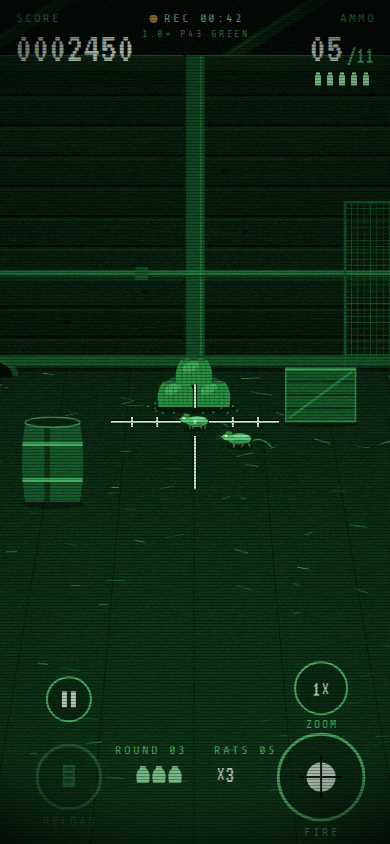
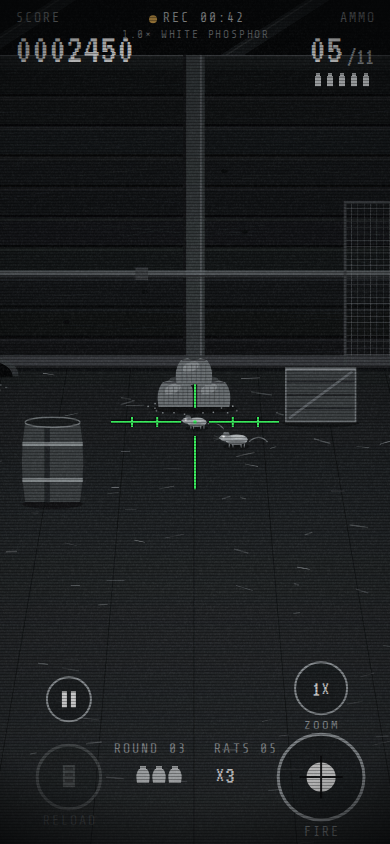
Default to white phosphor, add palettes, and tighten mobile UX
- White phosphor (the look of the original clip) is now the default; the
  green tube is one of five palettes alongside digital, amber and thermal.
  Saved settings from the first build are migrated so the new default wins.
- First-play coaching: a pulsing drag prompt, then a ring around FIRE until
  the first shot; never shown again after that.
- Buttons sink and light up while held; a hit marker flares on the reticle.
- Minimum HUD text raised to 12 px; prefers-reduced-motion disables sway,
  softens recoil, flash and grain.
- Screen stays awake during play (Wake Lock API in the browser, idle timer
  disabled in the iOS wrapper).
- README: Simulator instructions and testing from the feature branch.

Claude-Session: https://claude.ai/code/session_01AaQyWY6ASSuqQsRRu7Rhuq

diff --git a/docs/index.html b/docs/index.html
@@ -56,10 +56,17 @@ const CFG = {
   roundClear: 2.8,     // seconds the round summary stays up
 };
 
+// Every palette is a 7-step luminance ramp (tube black -> bloom white) plus a reticle
+// colour that contrasts with it. White phosphor is the look of the original clip.
 const PALETTES = {
-  green: { key:'green', label:'P43 GREEN', ramp:['#030604','#0a2411','#175c2a','#2c9a48','#5fd97a','#a4ffb5','#eaffee'], reticle:'#dcffe3', warn:'#ffc257' },
-  white: { key:'white', label:'WHITE PHOSPHOR', ramp:['#050607','#1a1d1f','#3f4346','#71767a','#a5abaf','#d6dadc','#ffffff'], reticle:'#3dff62', warn:'#ffc257' },
+  white:   { key:'white',   label:'WHITE PHOSPHOR', ramp:['#050607','#1a1d1f','#3f4346','#71767a','#a5abaf','#d6dadc','#ffffff'], reticle:'#3dff62', warn:'#ffc257' },
+  digital: { key:'digital', label:'DIGITAL',        ramp:['#03070a','#0b1c26','#174050','#2a6a7e','#4fa3b5','#95d8e3','#eafcff'], reticle:'#ff6a4d', warn:'#ffc257' },
+  amber:   { key:'amber',   label:'AMBER',          ramp:['#060402','#2a1a06','#5c3a0c','#9a6414','#d99a2b','#ffd071','#fff5d6'], reticle:'#fff9e8', warn:'#ff6a4d' },
+  thermal: { key:'thermal', label:'THERMAL',        ramp:['#06020c','#24094a','#6a1470','#b8235f','#f06a2a','#fbc531','#ffffff'], reticle:'#ffffff', warn:'#7ff0ff' },
+  green:   { key:'green',   label:'P43 GREEN',      ramp:['#030604','#0a2411','#175c2a','#2c9a48','#5fd97a','#a4ffb5','#eaffee'], reticle:'#dcffe3', warn:'#ffc257' },
 };
+const PALETTE_ORDER = ['white', 'digital', 'amber', 'thermal', 'green'];
+const REDUCED = !!(window.matchMedia && window.matchMedia('(prefers-reduced-motion: reduce)').matches);
 
 const FONT_DISPLAY = "'VT323','SF Mono',Menlo,Consolas,monospace";
 const FONT_UI = "'Share Tech Mono','SF Mono',Menlo,Consolas,monospace";
@@ -85,12 +92,14 @@ const store = {
   get(k, d) { try { const v = localStorage.getItem(k); return v === null ? d : JSON.parse(v); } catch (e) { return d; } },
   set(k, v) { try { localStorage.setItem(k, JSON.stringify(v)); } catch (e) { /* ignore */ } },
 };
-const OPT = Object.assign({ palette: 'green', sound: true, leftHand: false, tapFire: false, aim: 1 }, store.get('rh.opt', {}));
+const savedOpt = store.get('rh.opt', {});
+if (savedOpt.v !== 2) delete savedOpt.palette;   // v1 saves defaulted to green; let the new default win once
+const OPT = Object.assign({ v: 2, palette: 'white', sound: true, leftHand: false, tapFire: false, aim: 1 }, savedOpt);
 function saveOpt() { store.set('rh.opt', OPT); }
 
 // ---------- palette ----------
 function makePal(key) {
-  const p = PALETTES[key] || PALETTES.green;
+  const p = PALETTES[key] || PALETTES.white;
   const rgb = p.ramp.map(hexToRgb);
   return Object.assign({}, p, { rgb, a: (i, al) => `rgba(${rgb[i][0]},${rgb[i][1]},${rgb[i][2]},${al})` });
 }
@@ -713,9 +722,21 @@ const G = {
   ratsTotal: 0, ratsSpawned: 0, ratsHit: 0, ratsEscaped: 0, spawnT: 0, endDelay: 0,
   shots: 0, hits: 0, streak: 0, bestStreak: 0, roundShots: 0, roundHits: 0,
   flash: 0, agc: 0, warnText: '', warnT: 0, warnColor: null, demoT: 0, swayT: 0,
+  hitMark: 0, didDrag: false, didFire: false, tutDone: store.get('rh.tut', false),
 };
 let rows = [];           // tappable menu rows, rebuilt every frame the menu is drawn
 const BTN = {};
+const pressed = new Set();   // button ids currently held down, for pressed-state drawing
+
+// keep the screen awake while playing (Safari 16.4+, and the wrapper sets the idle timer natively)
+let wakeLock = null;
+async function keepAwake() {
+  try {
+    if (!('wakeLock' in navigator) || wakeLock) return;
+    wakeLock = await navigator.wakeLock.request('screen');
+    wakeLock.addEventListener('release', () => { wakeLock = null; });
+  } catch (e) { wakeLock = null; }
+}
 
 function layoutButtons() {
   const r = clamp(W * 0.11, 36, 46);
@@ -746,9 +767,10 @@ const hooks = {
 };
 
 function startGame() {
-  Object.assign(G, { score: 0, sacks: CFG.sacks, round: 0, shots: 0, hits: 0, streak: 0, bestStreak: 0, time: 0, newBest: false });
+  Object.assign(G, { score: 0, sacks: CFG.sacks, round: 0, shots: 0, hits: 0, streak: 0, bestStreak: 0, time: 0, newBest: false, didDrag: false, didFire: false });
   rats.length = 0; particles.length = 0; marks.length = 0; floats.length = 0;
   cam.x = CFG.worldW / 2; cam.y = 1010; cam.zoomT = 1;
+  keepAwake();
   startRound(1);
 }
 function startRound(n) {
@@ -790,11 +812,13 @@ function fire() {
   }
   G.mag--; G.shots++; G.roundShots++;
   G.bolt = CFG.boltTime; G.boltSfx = 0.14;
-  G.flash = 1; G.agc = 1;
+  G.flash = REDUCED ? 0.45 : 1; G.agc = 1;
+  if (!G.didFire) { G.didFire = true; if (!G.tutDone) { G.tutDone = true; store.set('rh.tut', true); } }
   Audio.sfx.shot(); haptic('fire');
   const [wx, wy] = screenToWorld(W / 2, H / 2);   // sample the aim point before the recoil moves the view
   const hit = hitTest(wx, wy);
-  kick.y -= 34 / cam.zoom; kick.x += rand(-9, 9) / cam.zoom;
+  const rk = REDUCED ? 0.35 : 1;
+  kick.y -= 34 * rk / cam.zoom; kick.x += rand(-9, 9) * rk / cam.zoom;
   if (hit.type === 'rat') killRat(hit.rat, wx, wy);
   else {
     impact(wx, wy, hit.type === 'floor' ? 'floor' : 'wall');
@@ -805,6 +829,7 @@ function fire() {
 }
 function killRat(r, wx, wy) {
   r.kill();
+  G.hitMark = 0.3;
   G.hits++; G.roundHits++; G.ratsHit++; G.streak++;
   G.bestStreak = Math.max(G.bestStreak, G.streak);
   const moving = r.state === 'run' ? 50 : 0;
@@ -830,7 +855,10 @@ function togglePause() {
   if (G.state === 'play') { setState('paused'); Audio.sfx.blip(); }
   else if (G.state === 'paused') { setState('play'); Audio.sfx.blip(); }
 }
-function cyclePalette() { setPalette(OPT.palette === 'green' ? 'white' : 'green'); saveOpt(); Audio.sfx.blip(); }
+function cyclePalette() {
+  const i = PALETTE_ORDER.indexOf(OPT.palette);
+  setPalette(PALETTE_ORDER[(i + 1) % PALETTE_ORDER.length]); saveOpt(); Audio.sfx.blip();
+}
 function setSound(on) { OPT.sound = on; Audio.setMuted(!on); saveOpt(); }
 
 // ============================================================
@@ -870,7 +898,7 @@ canvas.addEventListener('pointerdown', e => {
   try { canvas.setPointerCapture(e.pointerId); } catch (err) { /* older browsers */ }
   for (const r of rows) if (x >= r.x0 && x <= r.x1 && y >= r.y0 && y <= r.y1) { Audio.sfx.blip(); haptic('tap'); r.onTap(); return; }
   const b = buttonAt(x, y);
-  if (b) { pointers.set(e.pointerId, { role: 'btn', b }); pressButton(b); return; }
+  if (b) { pointers.set(e.pointerId, { role: 'btn', b }); pressed.add(b.id); pressButton(b); return; }
   if (G.state === 'boot') return;
   pointers.set(e.pointerId, { role: 'aim', x, y, moved: false });
   if (aimId === null) aimId = e.pointerId;
@@ -881,6 +909,7 @@ canvas.addEventListener('pointermove', e => {
   const dx = e.clientX - p.x, dy = e.clientY - p.y;
   if (!p.moved && Math.hypot(e.clientX - p.x, e.clientY - p.y) > 6) p.moved = true;
   if (p.moved && (G.state === 'play' || G.state === 'title' || G.state === 'intro')) {
+    if (G.state === 'play') G.didDrag = true;
     const s = viewScale();
     cam.x -= dx / s * OPT.aim; cam.y -= dy / s * OPT.aim;
     clampCam();
@@ -891,6 +920,7 @@ function endPointer(e) {
   const p = pointers.get(e.pointerId);
   if (!p) return;
   pointers.delete(e.pointerId);
+  if (p.role === 'btn') { pressed.delete(p.b.id); return; }
   if (p.role === 'aim') {
     if (!p.moved) tapScene();
     if (e.pointerId === aimId) { aimId = null; for (const [id, q] of pointers) if (q.role === 'aim') { aimId = id; break; } }
@@ -914,7 +944,10 @@ window.addEventListener('keydown', e => {
   else if (k.startsWith('Arrow')) { e.preventDefault(); keys.add(k); }
 });
 window.addEventListener('keyup', e => keys.delete(e.key));
-document.addEventListener('visibilitychange', () => { if (document.hidden && G.state === 'play') setState('paused'); });
+document.addEventListener('visibilitychange', () => {
+  if (document.hidden) { if (G.state === 'play') setState('paused'); }
+  else if (G.state === 'play' || G.state === 'paused') keepAwake();
+});
 
 // ============================================================
 // UPDATE
@@ -929,6 +962,7 @@ function update(dt) {
   const kd = Math.exp(-dt * 8); kick.x *= kd; kick.y *= kd;
   G.flash = Math.max(0, G.flash - dt * 11);
   G.agc = Math.max(0, G.agc - dt * 2.5);
+  G.hitMark = Math.max(0, G.hitMark - dt);
   if (G.warnT > 0) G.warnT -= dt;
   if (G.boltSfx > 0) { G.boltSfx -= dt; if (G.boltSfx <= 0) Audio.sfx.bolt(); }
 
@@ -938,7 +972,7 @@ function update(dt) {
 
   if (st === 'play') {
     G.time += dt; G.swayT += dt;
-    const A = cam.zoom > 1.5 ? 5 : 2;
+    const A = REDUCED ? 0 : (cam.zoom > 1.5 ? 5 : 2);
     sway.x = (Math.sin(G.swayT * 0.9) + 0.5 * Math.sin(G.swayT * 1.7)) * A;
     sway.y = Math.cos(G.swayT * 1.3) * A * 0.7;
     if (keys.size) {
@@ -992,7 +1026,7 @@ function label(str, x, y, size, color, align) {
 }
 const blink = (period) => (G.stateT % period) < period * 0.62;
 const fmtTime = s => pad(s / 60, 2) + ':' + pad(s % 60, 2);
-const ui = () => ({ small: clamp(W * 0.032, 11, 13), mid: clamp(W * 0.04, 14, 17), big: clamp(W * 0.11, 34, 46) });
+const ui = () => ({ small: clamp(W * 0.034, 12, 14), mid: clamp(W * 0.043, 15, 18), big: clamp(W * 0.11, 34, 46) });
 
 function menuRow(str, y, size, onTap, color) {
   const w = label(str, W / 2, y, size, color || PAL.ramp[5], 'center');
@@ -1010,10 +1044,11 @@ function panel(w, h) {
 }
 function drawButton(b, opts) {
   opts = opts || {};
-  const dim = opts.dim ? 0.35 : 1;
+  const dim = opts.dim ? 0.35 : 1, down = pressed.has(b.id);
   ctx.save();
   ctx.globalAlpha = dim;
-  ctx.fillStyle = PAL.a(1, 0.55); ctx.beginPath(); ctx.arc(b.x, b.y, b.r, 0, TAU); ctx.fill();
+  if (down) { ctx.translate(b.x, b.y); ctx.scale(0.92, 0.92); ctx.translate(-b.x, -b.y); }   // pressed: sinks and lights up
+  ctx.fillStyle = down ? PAL.a(3, 0.7) : PAL.a(1, 0.55); ctx.beginPath(); ctx.arc(b.x, b.y, b.r, 0, TAU); ctx.fill();
   ctx.strokeStyle = PAL.ramp[4]; ctx.lineWidth = b.r > 30 ? 3 : 2; ctx.beginPath(); ctx.arc(b.x, b.y, b.r, 0, TAU); ctx.stroke();
   if (opts.progress != null) { ctx.strokeStyle = PAL.ramp[6]; ctx.lineWidth = 4; ctx.beginPath(); ctx.arc(b.x, b.y, b.r - 6, -Math.PI / 2, -Math.PI / 2 + TAU * opts.progress); ctx.stroke(); }
   if (b.id === 'fire') {
@@ -1083,13 +1118,44 @@ function drawPlayHud() {
     if (prog != null) { ctx.fillStyle = PAL.a(2, 0.8); ctx.fillRect(cx - 50, H / 2 + 92 + f.small + 6, 100, 3); ctx.fillStyle = PAL.ramp[6]; ctx.fillRect(cx - 50, H / 2 + 92 + f.small + 6, 100 * prog, 3); }
   }
   if (G.warnT > 0) { ctx.save(); ctx.globalAlpha = Math.min(1, G.warnT * 2); label(G.warnText, cx, H / 2 - 120, f.mid, G.warnColor, 'center'); ctx.restore(); }
+  drawHints();
   drawButton(BTN.fire, { hot: G.bolt <= 0 && G.reloading <= 0 && G.mag > 0, dim: G.reloading > 0 });
   drawButton(BTN.reload, { progress: G.reloading > 0 ? 1 - G.reloading / CFG.reloadTime : null, dim: G.reserve <= 0 || G.mag >= CFG.magSize });
   drawButton(BTN.zoom);
   drawButton(BTN.pause);
 }
+// first-play coaching: shown until the player has dragged and fired once, then never again
+function drawHints() {
+  if (G.tutDone || G.round !== 1) return;
+  const f = ui(), cx = W / 2, cy = H / 2;
+  const pulse = 0.55 + 0.45 * Math.sin(G.stateT * 4);
+  ctx.save(); ctx.globalAlpha = pulse;
+  if (!G.didDrag) {
+    label('DRAG TO PAN THE SCOPE', cx, cy - 170, f.mid, PAL.ramp[6], 'center');
+    ctx.strokeStyle = PAL.ramp[6]; ctx.lineWidth = 2; ctx.lineCap = 'round';
+    const sw = 20 * Math.sin(G.stateT * 3), y = cy - 138;
+    ctx.beginPath(); ctx.moveTo(cx - 40 + sw, y); ctx.lineTo(cx + 40 + sw, y);
+    ctx.moveTo(cx - 40 + sw, y); ctx.lineTo(cx - 30 + sw, y - 7); ctx.moveTo(cx - 40 + sw, y); ctx.lineTo(cx - 30 + sw, y + 7);
+    ctx.moveTo(cx + 40 + sw, y); ctx.lineTo(cx + 30 + sw, y - 7); ctx.moveTo(cx + 40 + sw, y); ctx.lineTo(cx + 30 + sw, y + 7);
+    ctx.stroke();
+  } else if (!G.didFire) {
+    label('LINE UP A RAT, THEN TAP FIRE', cx, cy + 130, f.mid, PAL.ramp[6], 'center');
+    // a ring pulsing around the FIRE button
+    const b = BTN.fire, r = b.r + 10 + 8 * Math.sin(G.stateT * 4);
+    ctx.strokeStyle = PAL.ramp[6]; ctx.lineWidth = 2; ctx.beginPath(); ctx.arc(b.x, b.y, r, 0, TAU); ctx.stroke();
+  }
+  ctx.restore();
+}
 function drawReticle() {
   const cx = W / 2, cy = H / 2, z = cam.zoom > 1.5;
+  if (G.hitMark > 0) {
+    // hit marker: four diagonal ticks that flare out and fade
+    const k = G.hitMark / 0.3, r0 = 14 + (1 - k) * 10, r1 = r0 + 12;
+    ctx.save(); ctx.globalAlpha = k; ctx.strokeStyle = PAL.ramp[6]; ctx.lineWidth = 3; ctx.lineCap = 'round';
+    ctx.beginPath();
+    for (const [sx, sy] of [[1, 1], [-1, 1], [1, -1], [-1, -1]]) { ctx.moveTo(cx + sx * r0 * 0.707, cy + sy * r0 * 0.707); ctx.lineTo(cx + sx * r1 * 0.707, cy + sy * r1 * 0.707); }
+    ctx.stroke(); ctx.restore();
+  }
   const arm = z ? 110 : 84, gap = z ? 10 : 14;
   ctx.save();
   ctx.lineCap = 'butt';
@@ -1152,7 +1218,7 @@ function drawTitle() {
   const t = buildTitle();
   const ty = H * 0.30 - t.ch / 2;
   // phosphor flicker on the title, subtle
-  ctx.save(); ctx.globalAlpha = 0.92 + Math.sin(G.stateT * 23) * 0.03 + Math.sin(G.stateT * 7) * 0.05;
+  ctx.save(); ctx.globalAlpha = REDUCED ? 1 : 0.92 + Math.sin(G.stateT * 23) * 0.03 + Math.sin(G.stateT * 7) * 0.05;
   ctx.drawImage(t.c, W / 2 - t.cw / 2, ty, t.cw, t.ch);
   ctx.restore();
   let y = ty + t.sub + 46;
@@ -1209,7 +1275,7 @@ function drawHelp() {
     'ISSUED EACH ROUND, SO AIM.',
   ];
   let y = p.y + 66;
-  for (const l of lines) { if (l) label(l, W / 2, y, f.small + 1, PAL.ramp[5], 'center'); y += l ? 19 : 9; }
+  for (const l of lines) { if (l) label(l, W / 2, y, f.small, PAL.ramp[5], 'center'); y += l ? 20 : 9; }
   menuRow('BACK', p.y + p.h - 44, f.mid, () => setState('title'));
 }
 function drawIntro() {
@@ -1295,7 +1361,7 @@ function render() {
   else if (st === 'paused') { drawReticle(); drawPaused(); }
   else if (st === 'clear') drawClear();
   else if (st === 'over') drawOver();
-  drawTubeOverlays(G.flash > 0.2 ? 0.2 : 0.1);
+  drawTubeOverlays(REDUCED ? 0.05 : (G.flash > 0.2 ? 0.2 : 0.1));
   if (G.flash > 0) { ctx.fillStyle = PAL.a(6, G.flash * 0.75); ctx.fillRect(0, 0, W, H); }
 }
 

diff --git a/ios/RatHunter/GameView.swift b/ios/RatHunter/GameView.swift
@@ -14,6 +14,7 @@ struct GameView: UIViewRepresentable {
         config.userContentController.add(context.coordinator, name: "haptic")
 
         let webView = WKWebView(frame: .zero, configuration: config)
+        UIApplication.shared.isIdleTimerDisabled = true   // a game with long aiming pauses must not auto-lock
         webView.isOpaque = false
         webView.backgroundColor = .black
         webView.scrollView.backgroundColor = .black

diff --git a/README.md b/README.md
@@ -13,11 +13,19 @@ The whole game is one file, `docs/index.html`, with no build step and no depende
 
 ## Play it on your iPhone today (no Mac needed)
 
-1. On GitHub, open **Settings → Pages**. Under **Build and deployment**, set **Source** to *Deploy from a branch*, pick the `main` branch and the **/docs** folder, and save.
+1. On GitHub, open **Settings → Pages**. Under **Build and deployment**, set **Source** to *Deploy from a branch*, pick the branch (`main` once this is merged, or the feature branch to test it first) and the **/docs** folder, and save.
 2. After a minute the game is live at `https://ravikumar191191.github.io/greenforest/`.
 3. Open that link in Safari on your iPhone, tap the **Share** button, then **Add to Home Screen**.
 
 The home-screen copy runs full screen with no browser bars, keeps working offline, and gets its own icon. Sound needs one tap first because iOS mutes audio until you interact.
+
+## Try it in the iPhone Simulator (Mac)
+
+1. Open `ios/RatHunter.xcodeproj` in Xcode.
+2. In the run destination menu at the top, pick any iPhone simulator (for example *iPhone 16*).
+3. Press **Run** (⌘R). No signing or Apple ID is needed for the Simulator.
+
+Click and drag stands in for a finger. Haptics do not fire in the Simulator; everything else, including sound, works. **Device → Rotate** tests landscape.
 
 ## Ship it as a real iPhone app
 
@@ -52,7 +60,7 @@ Create a fresh project in Xcode: **File → New → Project → iOS → App**, n
 | **RELOAD** button (also automatic when the magazine is empty) | R |
 | **ZOOM** button, 1× / 2× | Z |
 | **II** pauses | P or Esc |
-| Options → Night vision | N switches green / white phosphor |
+| Options → Night vision | N cycles the five palettes |
 | Options → Sound | M mutes |
 
 Options also let you move the FIRE button to the left side, enable tap-to-fire on the scene, and change the aim speed. Settings and the best score are remembered on the device.
@@ -62,7 +70,8 @@ Options also let you move the FIRE button to the left side, enable tap-to-fire o
 - **Rounds.** Round *n* has *4 + n* rats (up to 14). You are issued 3 rounds of ammo per rat, in 5-round magazines, with a bolt cycle between shots. Leftover ammo and accuracy above 50% earn a bonus at the end of the round.
 - **Rats.** They come out of four holes, stop to sniff, sometimes hide behind the hay, barrels and crates, then either cross the barn or go for the grain pile. A rat that finishes eating runs home carrying a sack; stop it before it reaches a hole. Faster and less patient every round.
 - **Scoring.** 100 per rat, more for a moving rat and for a distant one. Hits in a row multiply the score up to 3×. A miss resets the streak.
-- **The tube.** Two authentic phosphor palettes: P43 green (classic image intensifier) and white phosphor (the look of the original clip). The overlay, noise, scanlines and auto-gain dip after a muzzle flash are all drawn on a `<canvas>`; there are no image assets.
+- **The tube.** Five palettes, switchable from the title screen, Options or the pause menu: white phosphor (the look of the original clip, the default), digital (the cool tint of a modern low-light sensor), amber, thermal (ironbow: cold purple, hot orange rats) and P43 green (the classic image intensifier). The overlay, noise, scanlines and auto-gain dip after a muzzle flash are all drawn on a `<canvas>`; there are no image assets.
+- **First play.** The first round coaches you: a pulsing prompt to drag, then a ring around FIRE until your first shot. After that the hints never come back.
 
 ## Project layout
 
